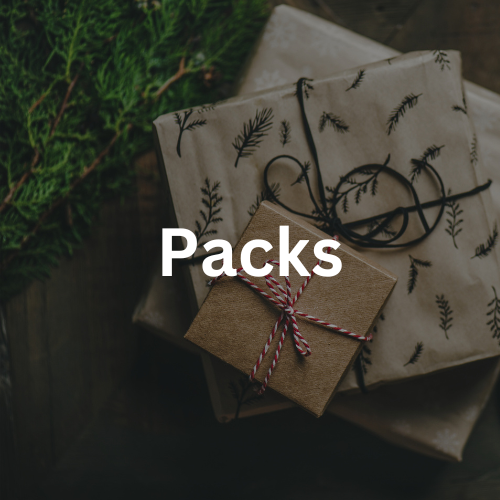
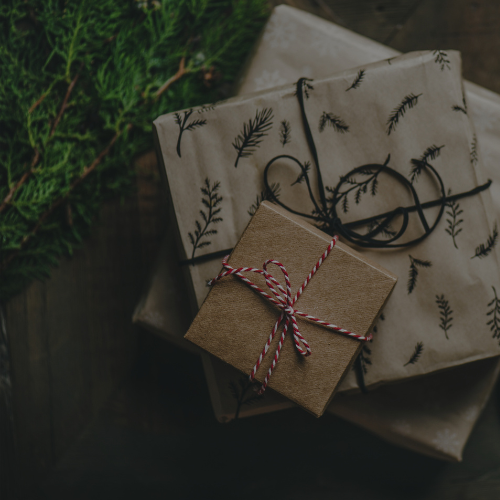
bento grid made sober

Changed region(s): [[0.3, 0.45, 0.69, 0.57]]

diff --git a/apps/website/components/BentoGrid.tsx b/apps/website/components/BentoGrid.tsx
@@ -1,27 +1,110 @@
+import React, { useState } from "react";
+import Image from "next/image";
+import { motion } from "framer-motion";
 import Link from "next/link";
-import React from "react";
+import { FaArrowRightLong } from "react-icons/fa6";
+import clsx from "clsx";
 
 interface BentoCardProps {
   bgImage: string;
   className?: string;
   url: string;
+  title: string;
 }
 
 const BentoCard: React.FC<BentoCardProps> = ({
   bgImage,
   className = "",
   url,
+  title,
+}) => {
+  const [isHovered, setIsHovered] = useState(false);
+
+  return (
+    <Link href={url} className={clsx("block", className)}>
+      <motion.div
+        className="relative w-full h-full rounded-lg overflow-hidden group"
+        onHoverStart={() => setIsHovered(true)}
+        onHoverEnd={() => setIsHovered(false)}
+      >
+        <div className="absolute inset-0 bg-[#111111] dark:bg-[#111111]">
+          <Image
+            src={bgImage}
+            alt={title}
+            layout="fill"
+            objectFit="cover"
+            className="transition-all duration-300 ease-in-out group-hover:blur-sm group-hover:scale-110 opacity-80 group-hover:opacity-70"
+          />
+        </div>
+        <div className="relative z-10 p-3 h-full flex flex-col justify-between text-white">
+          <div className="self-end group-hover:rotate-[-45deg] transition-all duration-500">
+            <FaArrowRightLong size={16} />
+          </div>
+          <div>
+            <ToolTitle isHovered={isHovered} className="text-sm font-bold">
+              {title}
+            </ToolTitle>
+          </div>
+        </div>
+      </motion.div>
+    </Link>
+  );
+};
+
+interface ToolTitleProps {
+  children: string;
+  isHovered: boolean;
+  className?: string;
+}
+
+const ToolTitle: React.FC<ToolTitleProps> = ({
+  children,
+  isHovered,
+  className,
 }) => {
   return (
-    <Link
-      href={url}
-      className={`relative rounded-lg overflow-hidden group ${className}`}
+    <motion.div
+      className={clsx(
+        "relative block overflow-hidden",
+        "transition-colors duration-300",
+        className,
+      )}
     >
-      <div
-        className="absolute inset-0 bg-center bg-cover opacity-80 group-hover:opacity-100 duration-300 transition-transform ease-in-out transform group-hover:scale-110"
-        style={{ backgroundImage: `url(${bgImage})` }}
-      />
-    </Link>
+      <motion.div>
+        {children.split("").map((letter, index) => (
+          <motion.span
+            key={index}
+            initial={{ y: 0 }}
+            animate={isHovered ? { y: "-100%" } : { y: 0 }}
+            transition={{
+              duration: 0.25,
+              ease: "easeInOut",
+              delay: 0.015 * index,
+            }}
+            className="inline-block"
+          >
+            {letter}
+          </motion.span>
+        ))}
+      </motion.div>
+      <motion.div className="absolute inset-0">
+        {children.split("").map((letter, index) => (
+          <motion.span
+            key={index}
+            initial={{ y: "100%" }}
+            animate={isHovered ? { y: 0 } : { y: "100%" }}
+            transition={{
+              duration: 0.25,
+              ease: "easeInOut",
+              delay: 0.015 * index,
+            }}
+            className="inline-block text-white"
+          >
+            {letter}
+          </motion.span>
+        ))}
+      </motion.div>
+    </motion.div>
   );
 };
 
@@ -29,6 +112,7 @@ interface Card {
   bgImage: string;
   className?: string;
   url: string;
+  title: string;
 }
 
 const BentoGrid: React.FC = () => {
@@ -37,38 +121,43 @@ const BentoGrid: React.FC = () => {
       bgImage: "/assets/hero/bento/1.png",
       url: "/components",
       className: "col-span-1 row-span-1",
+      title: "Components",
     },
     {
       bgImage: "/assets/hero/bento/6.png",
       url: "/tools/shadows",
       className: "col-span-2 row-span-1",
+      title: "Shadow Generator",
     },
-
     {
       bgImage: "/assets/hero/bento/2.png",
-      className: "aspect-square",
+      className: "col-span-1 row-span-1",
       url: "/store?tab=Templates",
+      title: "Templates",
     },
     {
       bgImage: "/assets/hero/bento/7.png",
       url: "/store?tab=Component%20Packs",
       className: "col-span-1 row-span-1",
+      title: "Packs",
     },
-
     {
       bgImage: "/assets/hero/bento/4.png",
-      className: "aspect-square",
+      className: "col-span-1 row-span-1",
       url: "/pricing",
+      title: "Pricing",
     },
     {
       bgImage: "/assets/hero/bento/3.png",
-      className: "col-span-2 aspect-[45px]",
+      className: "col-span-2 row-span-1",
       url: "/tools/colors",
+      title: "Color Generator",
     },
     {
       bgImage: "/assets/hero/bento/5.png",
-      className: "aspect-square",
+      className: "col-span-1 row-span-1",
       url: "/faqs",
+      title: "FAQs",
     },
   ];
 

diff --git a/apps/website/content/footer.ts b/apps/website/content/footer.ts
@@ -26,8 +26,8 @@ export const FOOTER_CONTENT = {
       title: "Site",
       links: [
         { name: "Components", url: "/components" },
-        { name: "Templates", url: "/templates" },
-        { name: "Colors", url: "/colors" },
+        { name: "Store", url: "/store" },
+        { name: "Tools", url: "/tools" },
         { name: "Pricing", url: "/pricing" },
         { name: "FAQs", url: "/faqs" },
       ],
